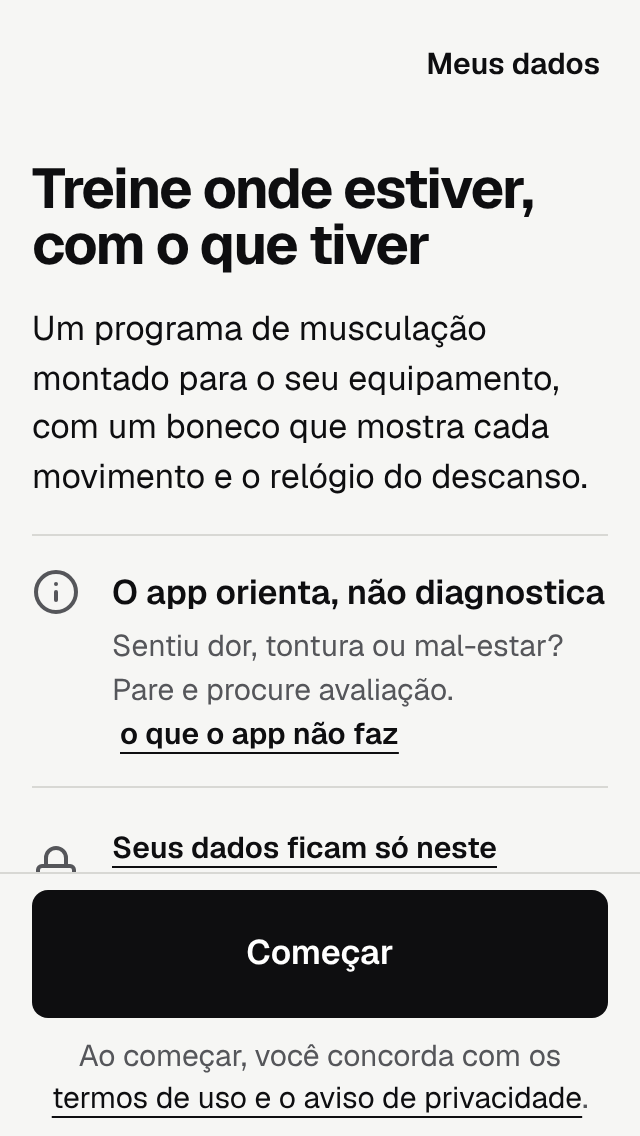
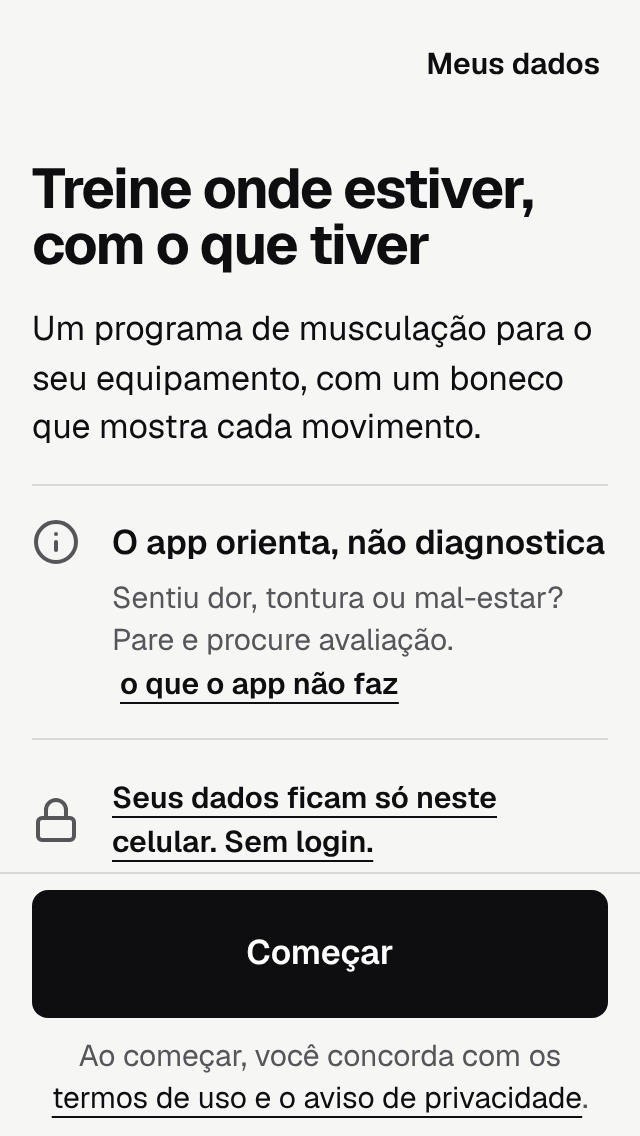
Usa na abertura a frase escolhida pelo Gustavo
Claude-Session: https://claude.ai/code/session_01YRzts4EMbFtUyquEqae8RY

diff --git a/src/features/onboarding/BoasVindas.tsx b/src/features/onboarding/BoasVindas.tsx
@@ -14,11 +14,8 @@ import { BonecoAbertura } from './BonecoAbertura';
 // movimento ao lado do título (no lugar dos 4 ícones de lugar), uma frase que diz o que a pessoa recebe, o aviso inteiro
 // numa nota calma antes do botão (seguranca.sem-diagnostico, texto intacto, à vista em qualquer celular) e a privacidade
 // a um toque. Sem promessa de resultado, sem prova social, sem contagem regressiva. Se já existe programa, abre direto nele.
-/**
- * O que a pessoa recebe, em uma frase (lote M1 da análise crítica). O texto é decisão do Gustavo: esta é a proposta
- * da sessão, à espera do ok dele.
- */
-export const O_QUE_RECEBE = 'Um programa de musculação montado para o seu equipamento, com um boneco que mostra cada movimento e o relógio do descanso.';
+/** O que a pessoa recebe, em uma frase (lote M1 da análise crítica). Texto escolhido pelo Gustavo em 22/11/2026. */
+export const O_QUE_RECEBE = 'Um programa de musculação para o seu equipamento, com um boneco que mostra cada movimento.';
 
 export function BoasVindas() {
   const { estado, carregado, erroCarga, atualizar } = useApp();

diff --git a/tests/e2e/abertura.spec.ts b/tests/e2e/abertura.spec.ts
@@ -102,7 +102,7 @@ test('boas-vindas: o texto da foto diz para onde ela vai e há link para os term
 test('boas-vindas: diz o que a pessoa recebe e mostra o Boneco em movimento', async ({ page }) => {
   await page.goto('/');
   await expect(page.getByRole('heading', { name: 'Treine onde estiver, com o que tiver' })).toBeVisible();
-  await expect(page.getByText('Um programa de musculação montado para o seu equipamento, com um boneco que mostra cada movimento e o relógio do descanso.')).toBeVisible();
+  await expect(page.getByText('Um programa de musculação para o seu equipamento, com um boneco que mostra cada movimento.')).toBeVisible();
   const boneco = page.getByRole('img', { name: 'O Boneco do app fazendo um agachamento' });
   await expect.poll(() => boneco.evaluate((e) => e.childElementCount)).toBeGreaterThan(0);
   // em movimento: o desenho muda sozinho; e sem as legendas miúdas do guia
